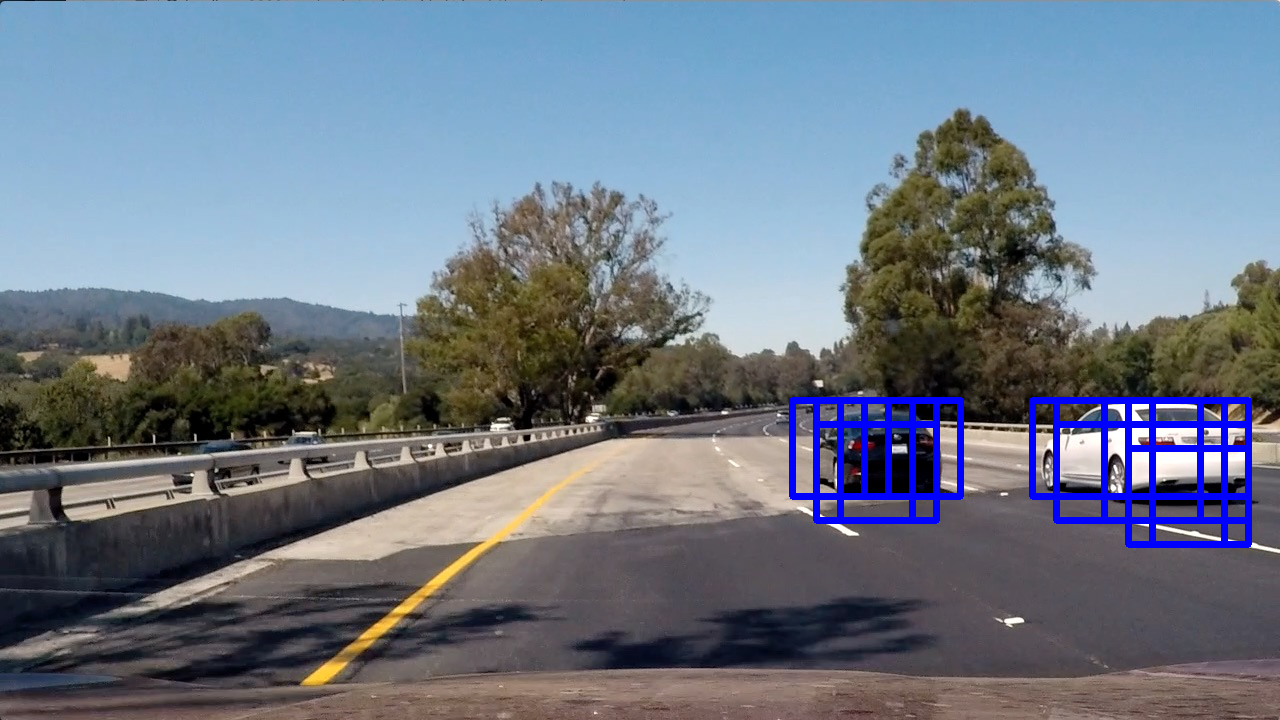
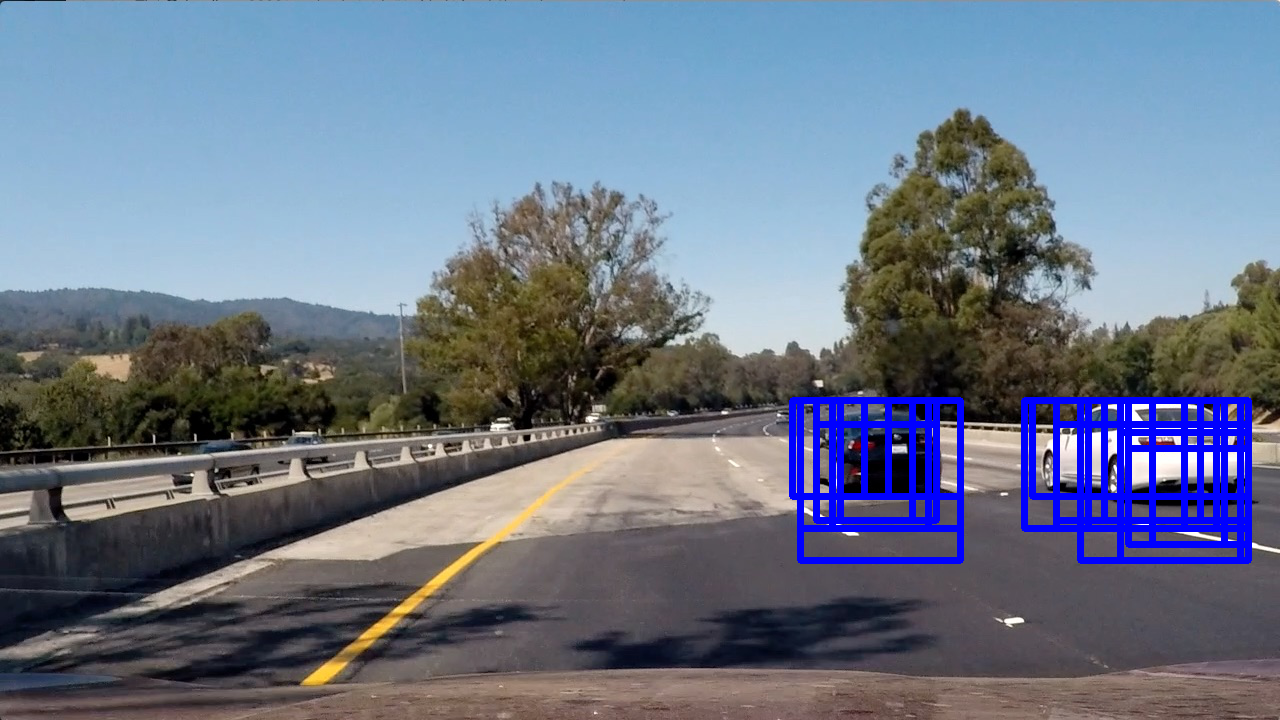
Starting with heatmaps

Changed region(s): [[0.7812, 0.55, 1.0, 0.7944], [0.625, 0.55, 0.75, 0.7944]]

diff --git a/CarND-Vehicle-Detection/project_code/multiple_detections.py b/CarND-Vehicle-Detection/project_code/multiple_detections.py
@@ -4,15 +4,15 @@ import numpy as np
 import pickle
 import cv2
 from scipy.ndimage.measurements import label
+from predict import get_bboxes
+import glob
 
 # Read in a pickle file with bboxes saved
 # Each item in the "all_bboxes" list will contain a 
 # list of boxes for one of the images shown above
-box_list = pickle.load( open( "bbox_pickle.p", "rb" ))
+# box_list = pickle.load( open( "bbox_pickle.p", "rb" ))
 
-# Read in image similar to one shown above 
-image = mpimg.imread('test_image.jpg')
-heat = np.zeros_like(image[:,:,0]).astype(np.float)
+
 
 def add_heat(heatmap, bbox_list):
     # Iterate through list of bboxes
@@ -46,23 +46,42 @@ def draw_labeled_bboxes(img, labels):
     return img
 
 # Add heat to each box in box list
-heat = add_heat(heat,box_list)
+# heat = add_heat(heat,box_list)
     
-# Apply threshold to help remove false positives
-heat = apply_threshold(heat,1)
+# # Apply threshold to help remove false positives
+# heat = apply_threshold(heat,1)
 
-# Visualize the heatmap when displaying    
-heatmap = np.clip(heat, 0, 255)
+# # Visualize the heatmap when displaying    
+# heatmap = np.clip(heat, 0, 255)
 
-# Find final boxes from heatmap using label function
-labels = label(heatmap)
-draw_img = draw_labeled_bboxes(np.copy(image), labels)
+# # Find final boxes from heatmap using label function
+# labels = label(heatmap)
+# draw_img = draw_labeled_bboxes(np.copy(image), labels)
 
-fig = plt.figure()
-plt.subplot(121)
-plt.imshow(draw_img)
-plt.title('Car Positions')
-plt.subplot(122)
-plt.imshow(heatmap, cmap='hot')
-plt.title('Heat Map')
-fig.tight_layout()
+# fig = plt.figure()
+# plt.subplot(121)
+# plt.imshow(draw_img)
+# plt.title('Car Positions')
+# plt.subplot(122)
+# plt.imshow(heatmap, cmap='hot')
+# plt.title('Heat Map')
+# fig.tight_layout()
+def sinlge_image_detection(img):
+  find_car_bboxes = get_bboxes(img)
+  heat = np.zeros_like(img[:,:,0]).astype(np.float)
+  heatmap = add_heat(heat, find_car_bboxes)
+  heatmap = apply_threshold(heatmap, 3)
+  cliped_heatmap = np.clip(heat, 0, 255)
+  labels = label(cliped_heatmap)
+  draw_img = draw_labeled_bboxes(np.copy(img), labels)
+  return [draw_img, cliped_heatmap]
+
+
+def detect_multiple():
+  image_names = glob.glob('../test_images/test*.jpg')
+  for index, image_name in enumerate(image_names):
+    img = mpimg.imread(image_name)
+    [draw_img, cliped_heatmap] = sinlge_image_detection(img)
+    print('Saving heatmap image' + str(index))
+    mpimg.imsave('../test_output/test_labeled_heat' + str(index) + '.png', draw_img)
+    mpimg.imsave('../test_output/test_heat' + str(index) + '.png', cliped_heatmap, cmap='hot')

diff --git a/CarND-Vehicle-Detection/project_code/hog_subsampling.py b/CarND-Vehicle-Detection/project_code/hog_subsampling.py
@@ -6,7 +6,7 @@ import cv2
 from lesson_functions import *
 
 # Define a single function that can extract features using hog sub-sampling and make predictions
-def find_cars(img, ystart, ystop, scale, svc, X_scaler, orient, pix_per_cell, cell_per_block, spatial_size, hist_bins, hist_range, colorspace, visualize=False):
+def find_cars(img, ystart, ystop, scale, svc, X_scaler, orient, pix_per_cell, cell_per_block, spatial_size, hist_bins, hist_range, colorspace):
     
     draw_img = np.copy(img)
     img = img.astype(np.float32)/255
@@ -44,7 +44,6 @@ def find_cars(img, ystart, ystop, scale, svc, X_scaler, orient, pix_per_cell, ce
             ypos = yb*cells_per_step
             xpos = xb*cells_per_step
             # Extract HOG for this patch
-            print('Test')
             hog_feat1 = hog1[ypos:ypos+nblocks_per_window, xpos:xpos+nblocks_per_window].ravel() 
             hog_feat2 = hog2[ypos:ypos+nblocks_per_window, xpos:xpos+nblocks_per_window].ravel() 
             hog_feat3 = hog3[ypos:ypos+nblocks_per_window, xpos:xpos+nblocks_per_window].ravel() 
@@ -61,25 +60,21 @@ def find_cars(img, ystart, ystop, scale, svc, X_scaler, orient, pix_per_cell, ce
             
             hist_features = color_hist(subimg, hist_bins, hist_range)
             # Scale features and make a prediction
-            print(spatial_features[10])
-            print(hist_features)
-            print(hog_features[10])
+            # print(spatial_features[10])
+            # print(hist_features)
+            # print(hog_features[10])
             test_features = X_scaler.transform(np.hstack((spatial_features, hist_features, hog_features)).reshape(1, -1))    
             #test_features = X_scaler.transform(np.hstack((shape_feat, hist_feat)).reshape(1, -1))    
             test_prediction = svc.predict(test_features)
             
             if test_prediction == 1:
+            # if (yb == 0 or yb == 1) and xb == 0:
                 xbox_left = np.int(xleft*scale)
                 ytop_draw = np.int(ytop*scale)
                 win_draw = np.int(window*scale)
                 bbox = ((xbox_left, ytop_draw+ystart), (xbox_left+win_draw,ytop_draw+win_draw+ystart))
                 bboxes.append(bbox)
-                if visualize:
-                    cv2.rectangle(draw_img, bbox[0], bbox[1], (0,0,255), 6) 
-    to_return = bboxes
-    if visualize:
-        to_return = [draw_img, bboxes]
-    return to_return
+    return bboxes
     
 # ystart = 400
 # ystop = 656

diff --git a/CarND-Vehicle-Detection/project_code/predict.py b/CarND-Vehicle-Detection/project_code/predict.py
@@ -4,17 +4,38 @@ import pickle
 import matplotlib.image as mpimg
 from sklearn.externals import joblib
 import cv2
+import numpy as np
 
-image_names = glob.glob('../test_images/test*.jpg')
-for index, image_name in enumerate(image_names):
-  img = mpimg.imread(image_name)
+def get_bboxes(img):
   [colorspace, orient, pix_per_cell, cell_per_block, hog_channel, spatial_size, hist_bins, hist_range] = pickle.load(open("variables_dump.p", "rb"))
   print([colorspace, orient, pix_per_cell, cell_per_block, hog_channel, spatial_size, hist_bins, hist_range])
   svc = pickle.load(open('svc_dump.pkl', 'rb'))
   X_scaler = pickle.load(open('X_scaler_dump.pkl', 'rb'))
-  ystart = 400
-  ystop = None
-  scale = 1.5
-  [out_img, bboxes] = find_cars(img, ystart, ystop, scale, svc, X_scaler, orient, pix_per_cell, cell_per_block, spatial_size, hist_bins, hist_range, colorspace, visualize=True)
-  print('Saving predicted image')
-  mpimg.imsave('../test_output/test' + str(index) + '.png', out_img)
+  
+  find_car_iterations = [[400, 460, 1.0], [400, None, 1.5], [400, None, 2.0], [400, None, 2.5]]
+  # find_car_iterations = [[400, 700, 2.5]]
+  find_car_bboxes = np.array([])
+  for find_car_iteration in find_car_iterations:
+    [ystart, ystop, scale] = find_car_iteration
+    bboxes = find_cars(img, ystart, ystop, scale, svc, X_scaler, orient, pix_per_cell, cell_per_block, spatial_size, hist_bins, hist_range, colorspace)
+    bboxes = np.array(bboxes)
+    if find_car_bboxes.size == 0:
+      find_car_bboxes = bboxes
+    elif bboxes.size != 0:
+      find_car_bboxes = np.concatenate([find_car_bboxes, bboxes], axis=0)
+
+  return find_car_bboxes
+
+
+def display_bboxes():
+  image_names = glob.glob('../test_images/test*.jpg')
+  for index, image_name in enumerate(image_names):
+    img = mpimg.imread(image_name)
+    find_car_bboxes = get_bboxes(img)
+    out_img = np.copy(img)
+    for find_car_bbox in find_car_bboxes:
+      out_img = cv2.rectangle(out_img, (find_car_bbox[0][0], find_car_bbox[0][1]), (find_car_bbox[1][0], find_car_bbox[1][1]), (0,0,255), 6)
+    print('Saving predicted image' + str(index))
+    mpimg.imsave('../test_output/test' + str(index) + '.png', out_img)  
+
+# display_bboxes()

diff --git a/CarND-Vehicle-Detection/writeup_template.md b/CarND-Vehicle-Detection/writeup_template.md
@@ -98,7 +98,7 @@ I trained a linear SVM using hog features, color histogram features and bin spat
 
 ####1. Describe how (and identify where in your code) you implemented a sliding window search.  How did you decide what scales to search and how much to overlap windows?
 
-The code for the sliding windows is in the `hog_subsampling.py` file in the `find_cars` method, starting from line 25.
+The code for the sliding windows is in the `hog_subsampling.py` file in the `find_cars` method, starting from line 25. I decided to scale from 1.0 to 2.0 with a 0.5 offset. I decided this after several iterations looking at how sliding windows were applied. The smallest scale, I just scaned from y=400 till y=460 just to focus on small cars.
 
 ####2. Show some examples of test images to demonstrate how your pipeline is working.  What did you do to optimize the performance of your classifier?
 
